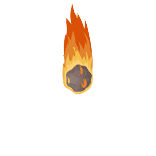
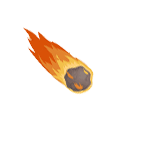
modifications mécaniques météorites

Changed region(s): [[0.1538, 0.0256, 0.6154, 0.6154]]

diff --git a/main_test.py b/main_test.py
@@ -59,7 +59,7 @@ def initaliser_variables_jeu():
 
 def actualiser_pos_meteorite(composants_meteorite):
     nouvelle_pos_x = composants_meteorite["coordonnees_actuelles"][0] + c.VITESSE_METEORITE
-    nouvelle_pos_y = composants_meteorite["trajectoire"](nouvelle_pos_x)
+    nouvelle_pos_y = int(composants_meteorite["trajectoire"](nouvelle_pos_x))
 
     composants_meteorite["coordonnees_actuelles"] = [nouvelle_pos_x, nouvelle_pos_y]
 
@@ -103,8 +103,9 @@ def creer_meteorite():
         "rect_meteorite": meteorite_rect,  # Rect correspondant à la météorite
         "rect_zone_collision": collision_meteorite_rect,  # Rect correspondant à la zone de collision de la météorite
 
-        "trajectoire": lambda pos_x: coefficient_directeur_traj * pos_x,  # Calculer la trajectoire de chaque meteorite
-        # allant de leur position initale vers le centre du personnage
+        "trajectoire": lambda pos_x: coefficient_directeur_traj * pos_x +
+        c.POS_Y_METEORITES - coefficient_directeur_traj * position_x_meteorite,
+        # Calculer la trajectoire de chaque meteorite allant de leur position initale vers le centre du personnage
 
         "coordonnees_actuelles": [position_x_meteorite, c.POS_Y_METEORITES],  # Coordonnées actuelles de la météorite
 
@@ -144,8 +145,8 @@ def actualisation_jeu(position_x, position_y):
     # Affichage du nombre de vies restantes
     somme_decalage_coeur = c.POS_X_DERNIER_COEUR
 
-    if temps_jeu_ecoule % 2 == 0 and apparition_meteorite != temps_jeu_ecoule and len(liste_meteorites) < c.NOMBRE_METEORITES_NIVEAU_1:
-        print("hey")
+    if temps_jeu_ecoule % 2 == 0 and apparition_meteorite != temps_jeu_ecoule \
+            and len(liste_meteorites) < c.NOMBRE_METEORITES_NIVEAU_1:
         creer_meteorite()
         apparition_meteorite = temps_jeu_ecoule
 
@@ -173,7 +174,8 @@ def actualisation_jeu(position_x, position_y):
     fenetre_jeu.blit(c.IMAGE_JAUGE_TIR, (c.DECALAGE_JAUGE, c.DECALAGE_JAUGE))
     pivoter_fleche_jauge()
 
-    for indice_composants_meteorite in range(len(liste_meteorites)):
+    indice_composants_meteorite = 0
+    while indice_composants_meteorite < len(liste_meteorites):
         liste_meteorites[indice_composants_meteorite] = \
             actualiser_pos_meteorite(liste_meteorites[indice_composants_meteorite])
         rect_meteorite_collision = liste_meteorites[indice_composants_meteorite]["rect_zone_collision"]
@@ -181,13 +183,15 @@ def actualisation_jeu(position_x, position_y):
             # Réduction du nombre de vies
             nombre_vies_actuel -= 1
 
+            del liste_meteorites[indice_composants_meteorite]
+
             # Si plus de vies restantes, game over
             if nombre_vies_actuel == 0:
                 initaliser_variables_jeu()
-
-            del liste_meteorites[indice_composants_meteorite]
+                break
         else:
             fenetre_jeu.blit(c.IMAGE_METEORITE, liste_meteorites[indice_composants_meteorite]["rect_meteorite"])
+            indice_composants_meteorite += 1
 
     # Affichage de la trajectoire anticipée si le mode de jeu est facile
     if mode_facile:
@@ -213,9 +217,31 @@ def actualisation_jeu(position_x, position_y):
         boulet_canon_rect.center = position_x_boulet + pos_x_centre_bouche_canon - c.DECALAGE_BOULET,\
             pos_y_centre_bouche_canon - position_y_boulet
 
-        for indice_composants_meteorite in range(len(liste_meteorites)):
+        indice_composants_meteorite = 0
+        while indice_composants_meteorite < len(liste_meteorites):
             if liste_meteorites[indice_composants_meteorite]["rect_zone_collision"].colliderect(boulet_canon_rect):
                 del liste_meteorites[indice_composants_meteorite]
+
+                position_x_boulet = 0
+                position_y_boulet = 0
+
+                position_x_tir = 0
+                position_y_tir = 0
+                vitesse_initiale_tir = 0
+
+                vitesse_initiale = c.VITESSE_BOULET_MIN
+
+                angle_rotation = -c.ANGLE_ROTATION_INITAL
+
+                en_animation_tir = False
+                en_explosion = True
+
+                coordonnees_explosion = boulet_canon_rect.center
+                horodatage_debut_explosion = pygame.time.get_ticks()
+
+                break
+            else:
+                indice_composants_meteorite += 1
 
         # Si le boulet ne collisionne pas avec un obstacle
         if not (boulet_canon_rect.colliderect(c.SOL_RECT) or boulet_canon_rect.colliderect(c.MUR_RECT) or

diff --git a/constantes_test.py b/constantes_test.py
@@ -162,7 +162,7 @@ MUR_RECT = pygame.Rect(LARGEUR_FENETRE, 0, LARGEUR_MUR_COLLISION, HAUTEUR_FENETR
 DUREE_EXPLOSION = 200
 
 NOMBRE_VIES_INITIAL_MODE_NORMAL = 3
-NOMBRE_VIES_INITIAL_MODE_FACILE = 5
+NOMBRE_VIES_INITIAL_MODE_FACILE = 7
 
 LARGEUR_COEUR = 30
 POS_X_DERNIER_COEUR = LARGEUR_FENETRE - LARGEUR_COEUR - 25
@@ -176,10 +176,10 @@ PERSONNAGE_RECT.x, PERSONNAGE_RECT.y = LARGEUR_FENETRE - 45 - LARGEUR_PERSONNAGE
     HAUTEUR_FENETRE + HAUTEUR_SOL_COLLISION - HAUTEUR_FENETRE - HAUTEUR_PERSONNAGE
 
 DIMENSION_METEORITE = 28
-INTERVALLE_POS_X_METEORITES = [100, 1100]
-POS_Y_METEORITES = -100
+INTERVALLE_POS_X_METEORITES = [100, 900]
+POS_Y_METEORITES = 0
 
-VITESSE_METEORITE = 10
+VITESSE_METEORITE = 3
 
 NOMBRE_METEORITES_NIVEAU_1 = 10
 
